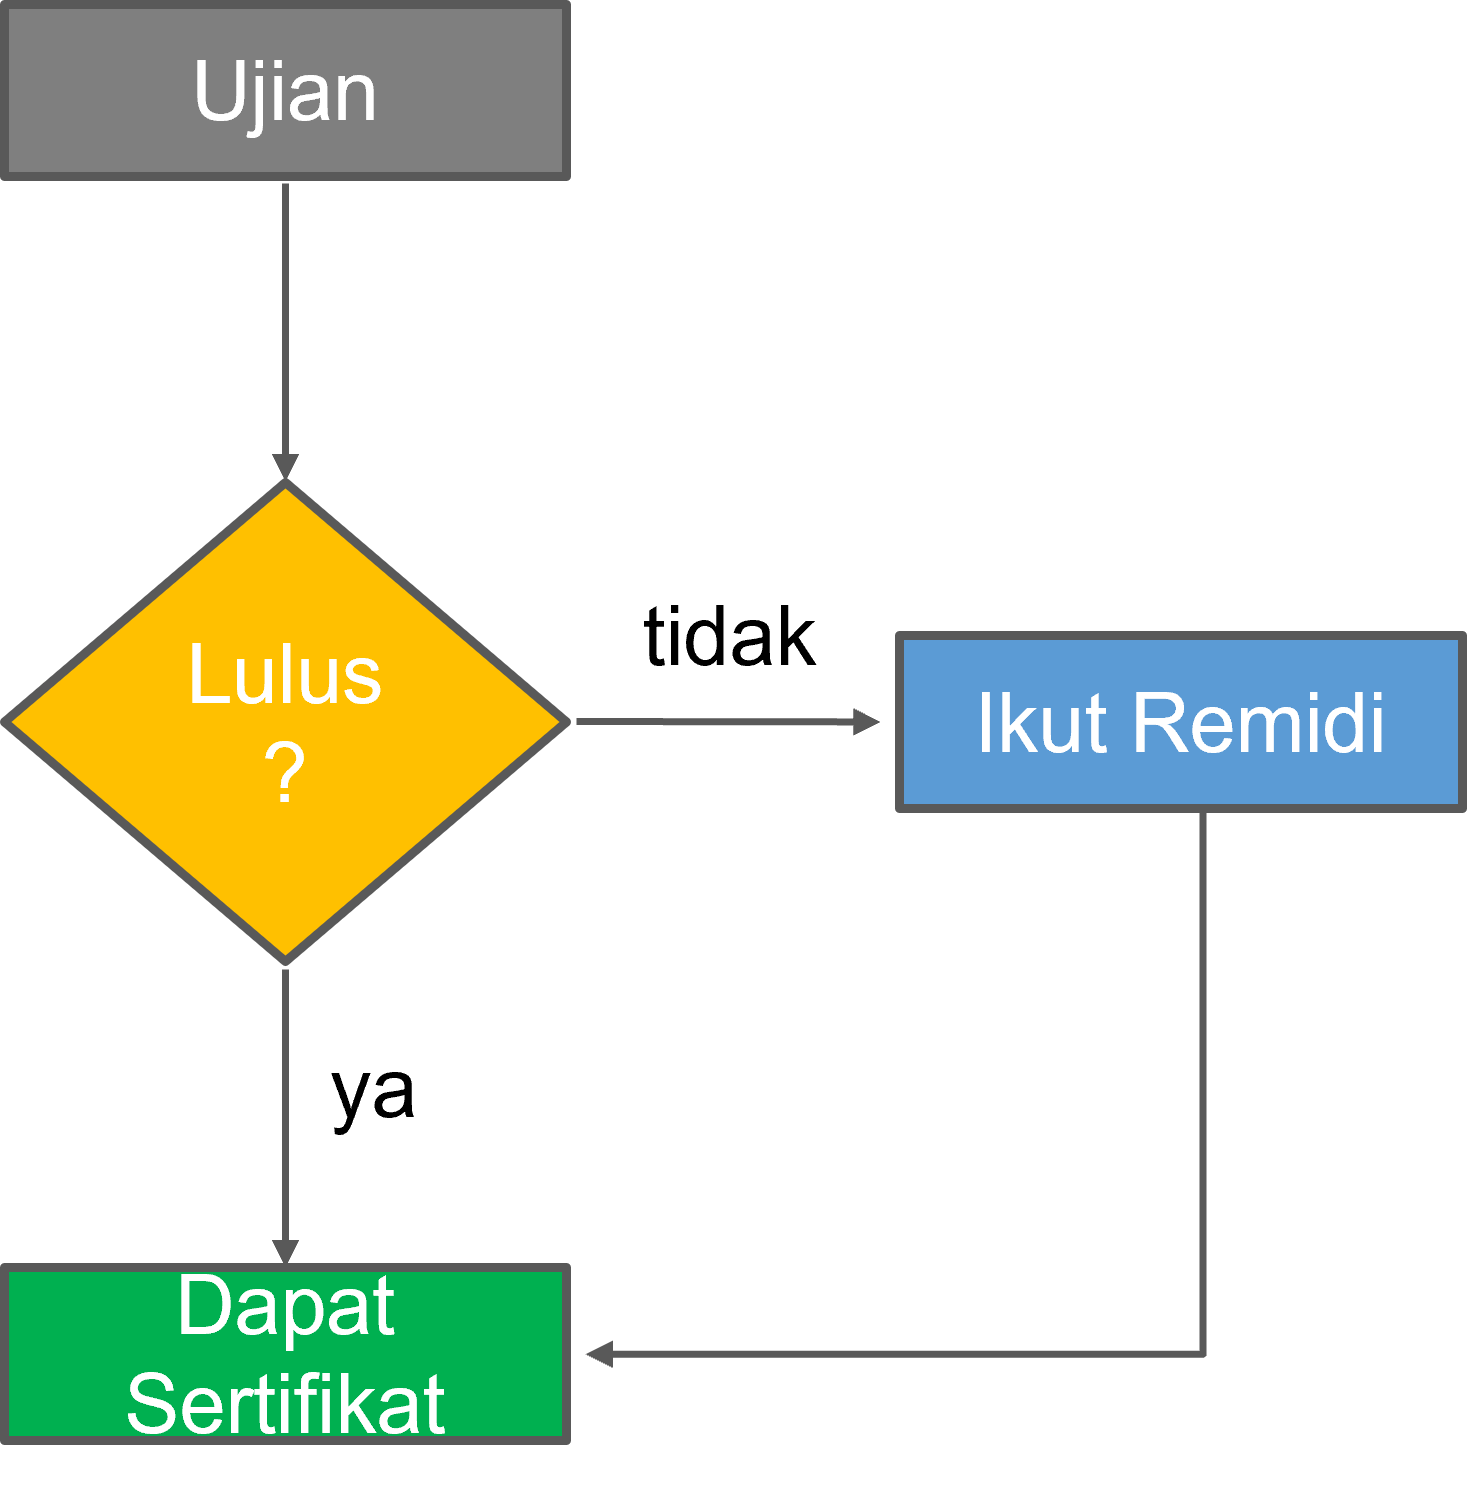
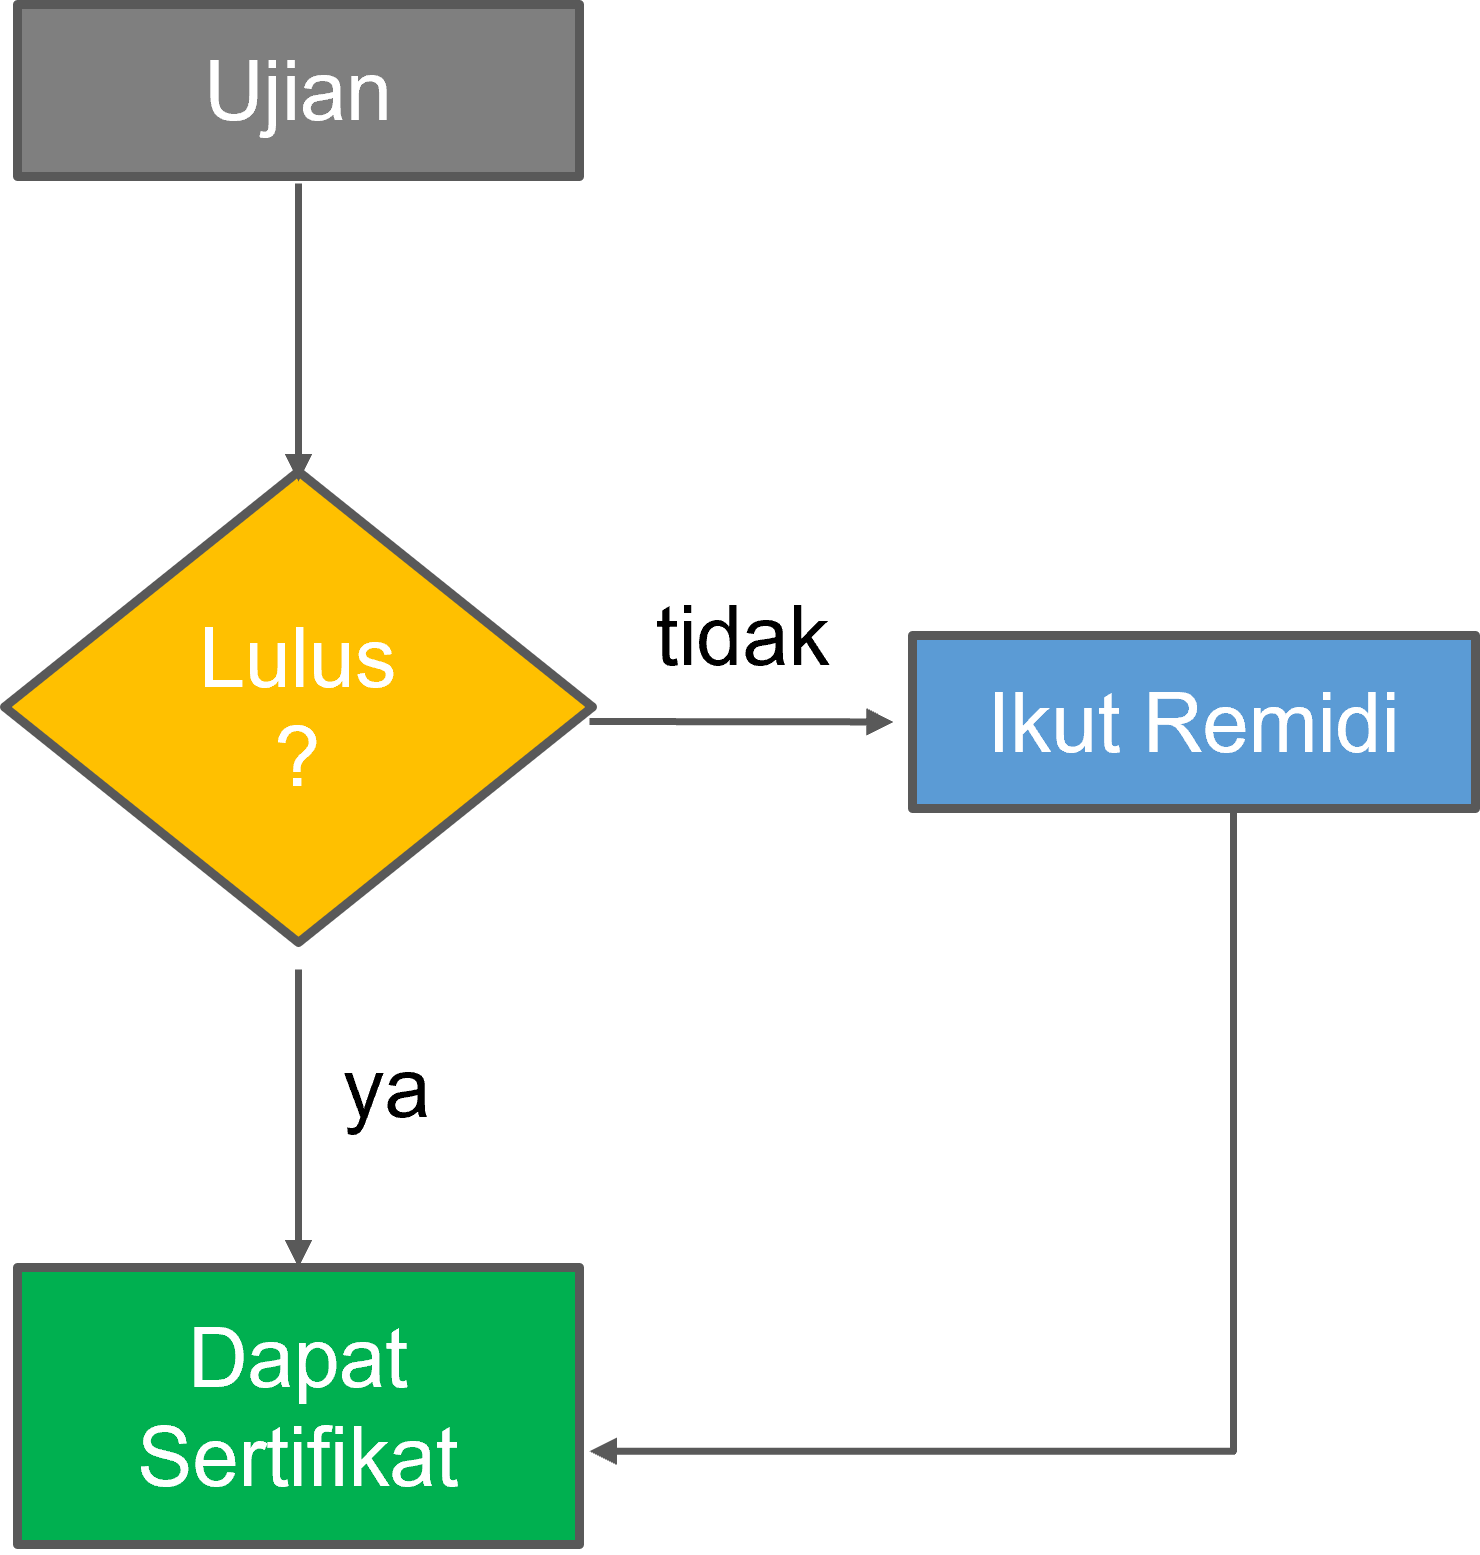
c

Changed region(s): [[0.0, 0.0, 1.0, 1.0]]

diff --git a/_book/konsep-dasar-python.html b/_book/konsep-dasar-python.html
@@ -349,10 +349,11 @@ code span.wa { color: #60a0b0; font-weight: bold; font-style: italic; } /* Warni
 <p><strong>Catatan:</strong> Jika anda ingin belajar lebih lanjut mengenai prosedur membuat flowchart silahkan klik <a href="https://ndoware.com/diagram-alir-flowchart.html">disini</a>.</p>
 <div id="struktur-percabangan-if" class="section level3 hasAnchor" number="1.3.1">
 <h3><span class="header-section-number">1.3.1</span> Struktur Percabangan If<a href="konsep-dasar-python.html#struktur-percabangan-if" class="anchor-section" aria-label="Anchor link to header"></a></h3>
-<p>Percabangan If digunakan saat terdapat satu pilihan keputusan. Misalkan, kalau kita tidak lulus dalam ujian, maka kita ikut remidi. Sedangkan kalau lulus tidak perlu ikut remidi.</p>
+<p>Percabangan If digunakan saat terdapat satu pilihan keputusan. Contoh, Jika peserta pelatihan tidak lulus dalam ujian, maka kita harus ikut remidi. Sedangkan yang lulus dapat sertifikat.</p>
 <center>
-<img src="https://github.com/sainzdata/Py_JNE/blob/main/images/if.png?raw=true" width="400" height="300">
+<img src="https://github.com/sainzdata/Py_JNE/blob/main/images/if.png?raw=true" width="270" height="270">
 </center>
+<p>Dalam hal ini digunakan operator relasi sama dengan (==) untuk membandingkan isi variabel lulus. Sedangkan tanda titik-dua (:) adalah tanda untuk memulai blok kode If. Perlu dicata bahwa: <strong>Penulisan blok If, harus diberikan indentasi tab atau spasi 2x</strong>.</p>
 
 </div>
 </div>
